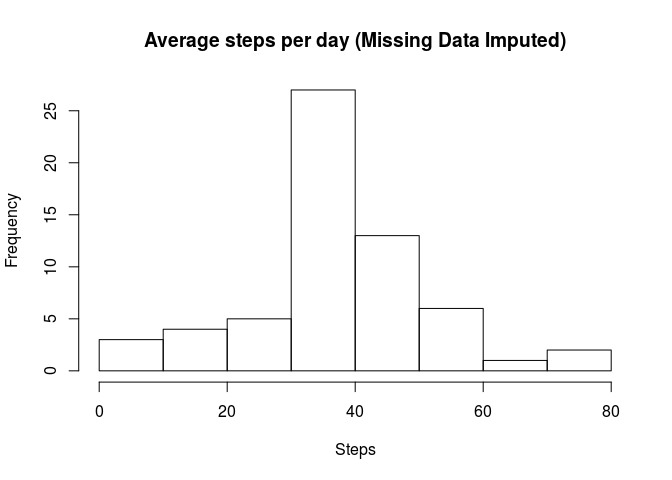
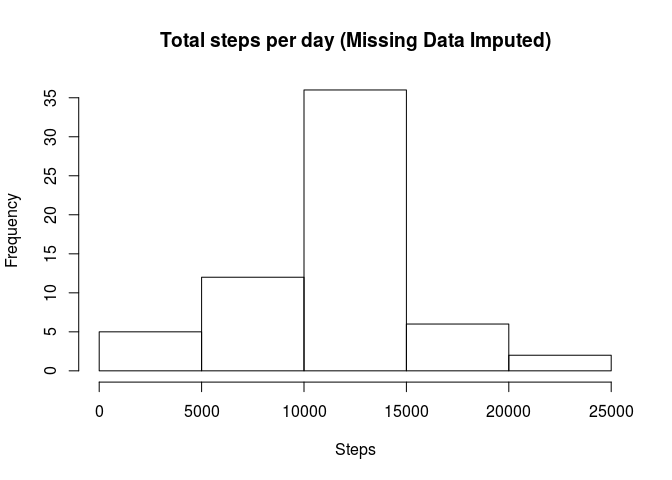
Better explain change in median

diff --git a/PA1_template.html b/PA1_template.html
@@ -134,16 +134,16 @@ d_clean&lt;-data[!is.na(data$steps),]</code></pre>
 <h2>What is mean total number of steps taken per day?</h2>
 <p>“For this part of the assignment, you can ignore the missing values in the dataset.”</p>
 <pre class="r"><code># Calculate the total number of steps taken per day - aggregate by day (i.e. date)
-d_date&lt;-aggregate(d_clean$steps,list(d_clean$date),mean)
+d_date&lt;-aggregate(d_clean$steps,list(d_clean$date),sum)
 names(d_date)&lt;-c(&quot;date&quot;,&quot;steps&quot;)
 # Plot
-hist(d_date$steps,main=&quot;Average Steps Per Day&quot;,xlab=&quot;Steps&quot;)</code></pre>
[1 lines of base64/hex data omitted]
+hist(d_date$steps,main=&quot;Total Steps Per Day&quot;,xlab=&quot;Steps&quot;)</code></pre>
[1 lines of base64/hex data omitted]
 <p>Summary measures for the average number of steps per day:</p>
-<pre class="r"><code>m&lt;-mean(d_date$steps)
-md&lt;-median(d_date$steps)</code></pre>
-<p>The mean number of average steps per day is 37.3825996.<br />
-The median number of average steps per day is 37.3784722.</p>
+<pre class="r"><code>m&lt;-sprintf(&quot;%8.2f&quot;,mean(d_date$steps))
+md&lt;-sprintf(&quot;%8.2f&quot;,median(d_date$steps))</code></pre>
+<p>The mean number of steps per day is 10766.19.<br />
+The median number of steps per day is 10765.00.</p>
 </div>
 <div id="what-is-the-average-daily-activity-pattern" class="section level2">
 <h2>What is the average daily activity pattern?</h2>
@@ -161,10 +161,11 @@ max_steps&lt;-d_int[max_index,&quot;steps&quot;]</code></pre>
 </div>
 <div id="imputing-missing-values" class="section level2">
 <h2>Imputing missing values</h2>
-<pre class="r"><code>d_na&lt;-data[is.na(data$steps),]
+<pre class="r"><code># Separate out the data that needs to be imputed
+d_na&lt;-data[is.na(data$steps),]
 n_na&lt;-dim(d_na)[1]</code></pre>
 <p>There are 2304 rows with NA in the data set.</p>
-<p>Impute the missing step values using the average steps for the interval, performing some checks as well:</p>
+<p>Impute the missing step values using the average number of steps for the intervals with available data, performing some checks as well:</p>
 <pre class="r"><code># For each row d in d_na, set steps to average steps for the interval (stored in d_int)
 d_na[&quot;steps&quot;]&lt;- d_int$steps[match(d_na$interval,d_int$interval)]
 # Re-construct the data set by merging clean with imputed 
@@ -198,28 +199,32 @@ check</code></pre>
 ## Imputed     26 2012-10-03     1835</code></pre>
 <p>Now the summary measures and the histogram</p>
 <pre class="r"><code>#Aggregate the &quot;complete&quot; dataset by day (date), then plot a histogram
-d_complete_date&lt;-aggregate(d_complete$steps,list(d_complete$date),mean)
+d_complete_date&lt;-aggregate(d_complete$steps,list(d_complete$date),sum)
 names(d_complete_date)&lt;-c(&quot;date&quot;,&quot;steps&quot;)
 hist(d_complete_date$steps,
-     main=&quot;Average steps per day (Missing Data Imputed)&quot;,xlab=&quot;Steps&quot;)</code></pre>
[1 lines of base64/hex data omitted]
-<pre class="r"><code>m&lt;-mean(d_complete_date$steps)
-md&lt;-median(d_complete_date$steps)</code></pre>
-<p>The mean number of average steps per day is 37.3825996.<br />
-The median number of average steps per day is 37.3825996.</p>
-<p>The means are identical in the unimputed and imputed datasets, not so the median, which has changed a tiny bit. I.e. the impact of imputing missing data seems negligible.</p>
-<p>As a double check, let’s look at the data underlying the calculated means for original vs imputed. They sums of steps are different and the number of days in the calculation are different; however, the calculated means are equal to four decimal places:</p>
-<pre class="r"><code>check&lt;-data.frame(matrix(c(sum(d_date$steps),sum(d_complete_date$steps),
-                       dim(d_date)[1],dim(d_complete_date)[1],
-                       sum(d_date$steps)/dim(d_date)[1],
-                       sum(d_complete_date$steps)/dim(d_complete_date)[1]),
-                      c(2,2)))
-names(check)&lt;-c(&quot;Sum of steps&quot;,&quot;Number of days&quot;,&quot;Mean&quot;)
-row.names(check)&lt;-c(&quot;Original data set&quot;,&quot;Imputed data set&quot;)
+     main=&quot;Total steps per day (Missing Data Imputed)&quot;,xlab=&quot;Steps&quot;)</code></pre>
[1 lines of base64/hex data omitted]
+<pre class="r"><code>m&lt;-sprintf(&quot;%8.2f&quot;,mean(d_complete_date$steps))
+md&lt;-sprintf(&quot;%8.2f&quot;,median(d_complete_date$steps))</code></pre>
+<p>The mean number of average steps per day is 10766.19.<br />
+The median number of average steps per day is 10766.19.</p>
+<p>The means are identical in the unimputed and imputed datasets, not so the median, which is now identical to the mean. I.e. the impact of imputing missing data seems negligible. The equality of means between non-imputed and imputed and of the mean and median in imputed is due to entire days missing and therefore the average daily total number of steps ends up being the total number of steps for those days.</p>
+<pre class="r"><code># d_int is used to replace a whole missing day's intervals
+sum(d_int$steps)</code></pre>
+<pre><code>## [1] 10766.19</code></pre>
+<pre class="r"><code># When data was imputed the ENTIRE DAY was imputed.  Looking at the imputed dataset -
+check&lt;-aggregate(d_na$steps,list(d_na$date),sum)
+names(check)&lt;-c(&quot;Date&quot;,&quot;Steps&quot;)
 check</code></pre>
-<pre><code>##                   Sum of steps Number of days    Mean
-## Original data set     1981.278             53 37.3826
-## Imputed data set      2280.339             61 37.3826</code></pre>
+<pre><code>##         Date    Steps
+## 1 2012-10-01 10766.19
+## 2 2012-10-08 10766.19
+## 3 2012-11-01 10766.19
+## 4 2012-11-04 10766.19
+## 5 2012-11-09 10766.19
+## 6 2012-11-10 10766.19
+## 7 2012-11-14 10766.19
+## 8 2012-11-30 10766.19</code></pre>
 </div>
 <div id="are-there-differences-in-activity-patterns-between-weekdays-and-weekends" class="section level2">
 <h2>Are there differences in activity patterns between weekdays and weekends?</h2>

diff --git a/PA1_template.md b/PA1_template.md
@@ -15,10 +15,10 @@ d_clean<-data[!is.na(data$steps),]
 
 ```r
 # Calculate the total number of steps taken per day - aggregate by day (i.e. date)
-d_date<-aggregate(d_clean$steps,list(d_clean$date),mean)
+d_date<-aggregate(d_clean$steps,list(d_clean$date),sum)
 names(d_date)<-c("date","steps")
 # Plot
-hist(d_date$steps,main="Average Steps Per Day",xlab="Steps")
+hist(d_date$steps,main="Total Steps Per Day",xlab="Steps")
 ```
 
 ![](PA1_template_files/figure-html/steps_per_day-1.png)<!-- -->
@@ -26,12 +26,12 @@ hist(d_date$steps,main="Average Steps Per Day",xlab="Steps")
 Summary measures for the average number of steps per day:
 
 ```r
-m<-mean(d_date$steps)
-md<-median(d_date$steps)
+m<-sprintf("%8.2f",mean(d_date$steps))
+md<-sprintf("%8.2f",median(d_date$steps))
 ```
 
-The mean number of average steps per day is 37.3825996.  
-The median number of average steps per day is 37.3784722.  
+The mean number of steps per day is 10766.19.  
+The median number of steps per day is 10765.00.  
 
 ## What is the average daily activity pattern?  
 
@@ -60,13 +60,14 @@ Interval 835 contains the maximum average number of steps: 206.1698113. I.e the 
 
 
 ```r
+# Separate out the data that needs to be imputed
 d_na<-data[is.na(data$steps),]
 n_na<-dim(d_na)[1]
 ```
 
 There are 2304 rows with NA in the data set.
 
-Impute the missing step values using the average steps for the interval, performing some checks as well:
+Impute the missing step values using the average number of steps for the intervals with available data, performing some checks as well:
 
 
 ```r
@@ -132,43 +133,55 @@ Now the summary measures and the  histogram
 
 ```r
 #Aggregate the "complete" dataset by day (date), then plot a histogram
-d_complete_date<-aggregate(d_complete$steps,list(d_complete$date),mean)
+d_complete_date<-aggregate(d_complete$steps,list(d_complete$date),sum)
 names(d_complete_date)<-c("date","steps")
 hist(d_complete_date$steps,
-     main="Average steps per day (Missing Data Imputed)",xlab="Steps")
+     main="Total steps per day (Missing Data Imputed)",xlab="Steps")
 ```
 
 ![](PA1_template_files/figure-html/complete_hist-1.png)<!-- -->
 
 
 ```r
-m<-mean(d_complete_date$steps)
-md<-median(d_complete_date$steps)
+m<-sprintf("%8.2f",mean(d_complete_date$steps))
+md<-sprintf("%8.2f",median(d_complete_date$steps))
 ```
 
-The mean number of average steps per day is 37.3825996.  
-The median number of average steps per day is 37.3825996.  
+The mean number of average steps per day is 10766.19.  
+The median number of average steps per day is 10766.19.  
 
-The means are identical in the unimputed and imputed datasets, not so the median, which has changed a tiny bit.  I.e. the impact of imputing missing data seems negligible.
+The means are identical in the unimputed and imputed datasets, not so the median, which is now identical to the mean.  I.e. the impact of imputing missing data seems negligible. The equality of means between non-imputed and imputed and of the mean and median in imputed is due to entire days missing and therefore the average daily total number of steps ends up being the total number of steps for those days.
 
-As a double check, let's look at the data underlying the calculated means for original vs imputed.  They sums of steps are different and the number of days in the calculation are different; however, the calculated means are equal to four decimal places:
+
 
 ```r
-check<-data.frame(matrix(c(sum(d_date$steps),sum(d_complete_date$steps),
-                       dim(d_date)[1],dim(d_complete_date)[1],
-                       sum(d_date$steps)/dim(d_date)[1],
-                       sum(d_complete_date$steps)/dim(d_complete_date)[1]),
-                      c(2,2)))
-names(check)<-c("Sum of steps","Number of days","Mean")
-row.names(check)<-c("Original data set","Imputed data set")
+# d_int is used to replace a whole missing day's intervals
+sum(d_int$steps)
+```
+
+```
+## [1] 10766.19
+```
+
+```r
+# When data was imputed the ENTIRE DAY was imputed.  Looking at the imputed dataset -
+check<-aggregate(d_na$steps,list(d_na$date),sum)
+names(check)<-c("Date","Steps")
 check
 ```
 
 ```
-##                   Sum of steps Number of days    Mean
-## Original data set     1981.278             53 37.3826
-## Imputed data set      2280.339             61 37.3826
+##         Date    Steps
+## 1 2012-10-01 10766.19
+## 2 2012-10-08 10766.19
+## 3 2012-11-01 10766.19
+## 4 2012-11-04 10766.19
+## 5 2012-11-09 10766.19
+## 6 2012-11-10 10766.19
+## 7 2012-11-14 10766.19
+## 8 2012-11-30 10766.19
 ```
+
 
 ## Are there differences in activity patterns between weekdays and weekends?
 
